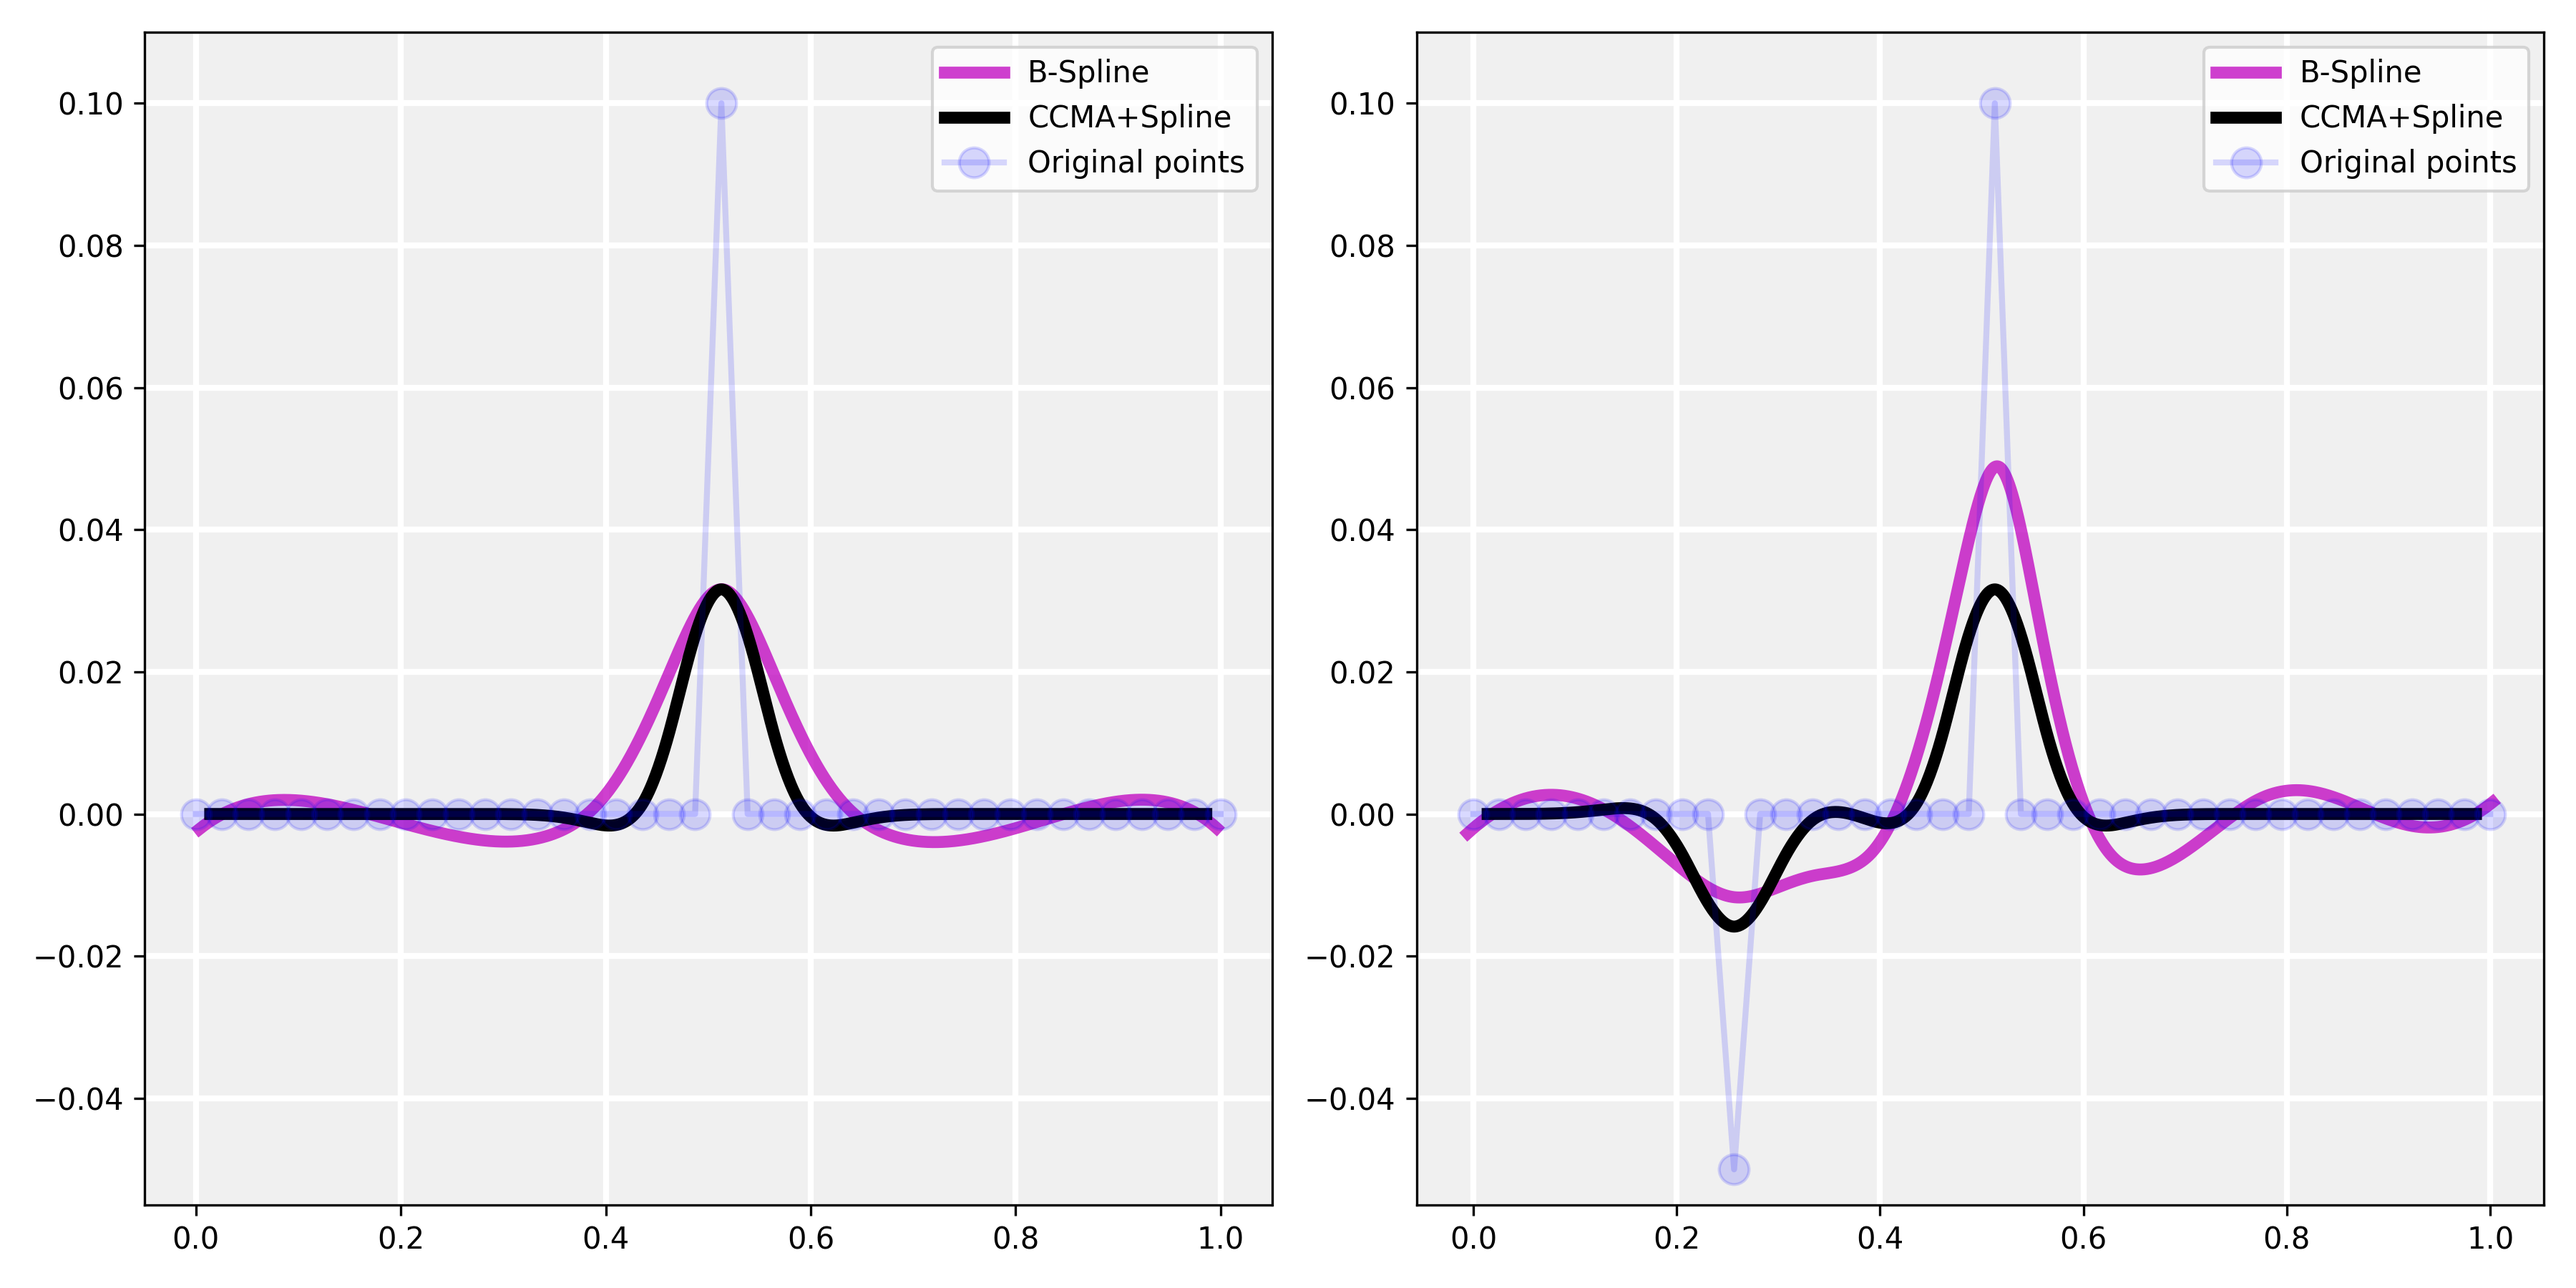
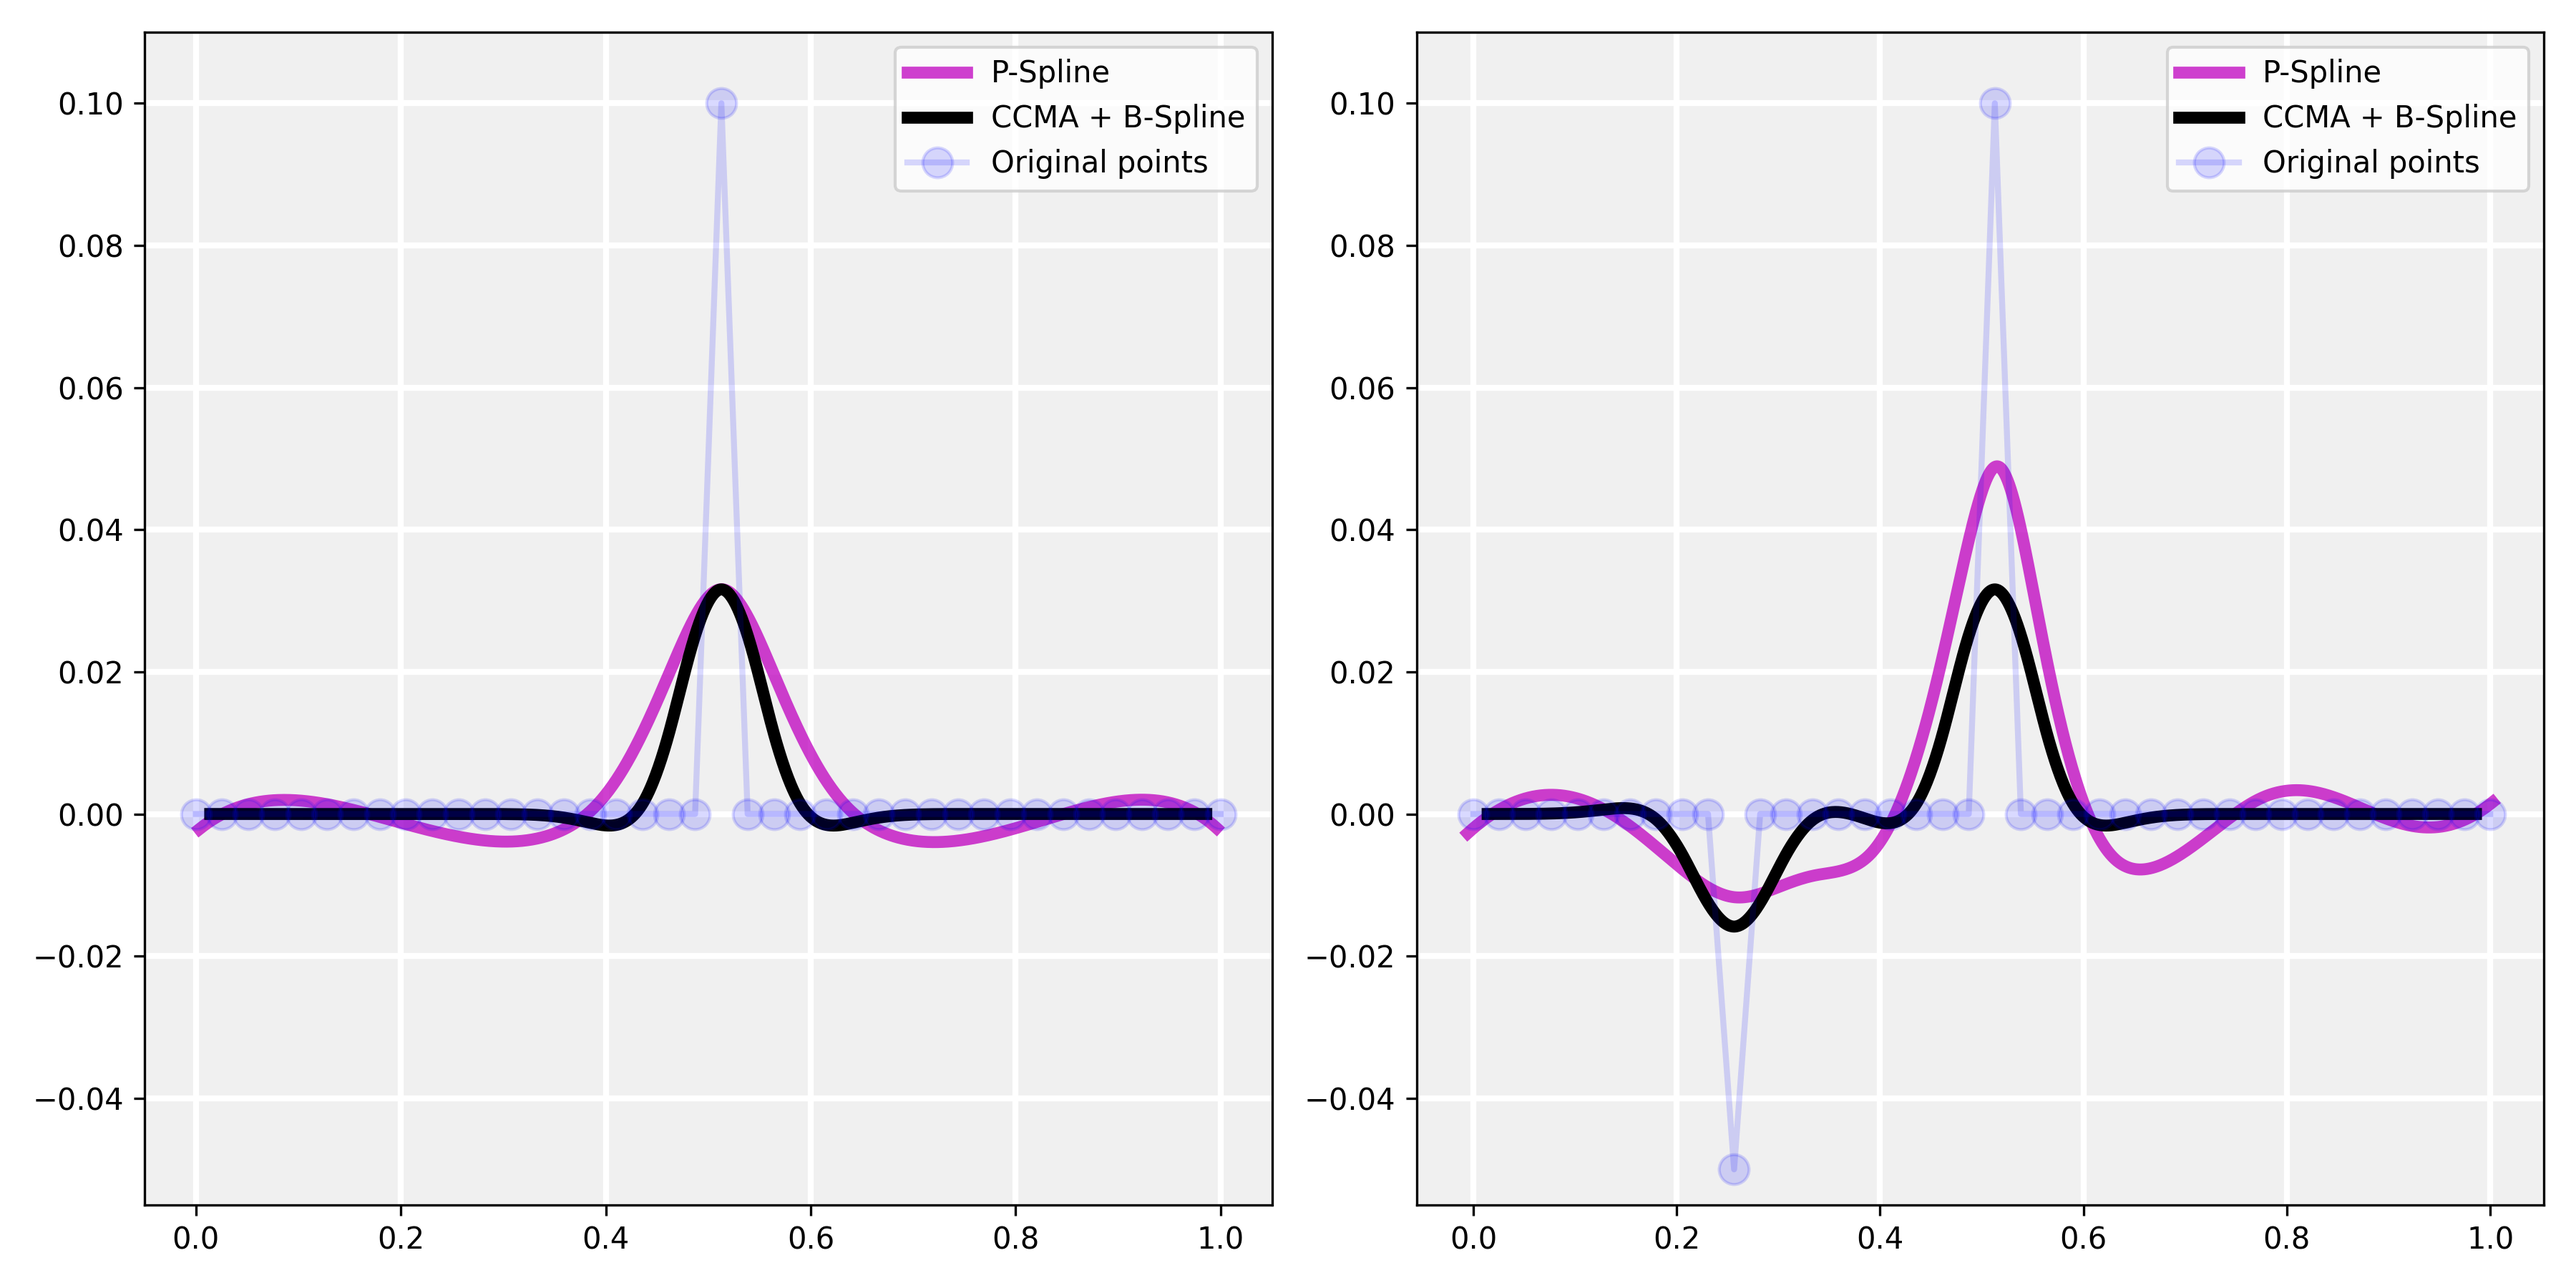
improved Spline terminology

Changed region(s): [[0.84, 0.0311, 0.9644, 0.1556], [0.3422, 0.0311, 0.4667, 0.1556]]

diff --git a/examples/example_5_ccma_and_splines.py b/examples/example_5_ccma_and_splines.py
@@ -25,12 +25,12 @@ ccma_points = ccma.filter(points)
 # Fit a 2D Spline to the CCMA-smoothed path
 tck, u = splprep(x=ccma_points.T, s=0, k=3)
 spline_samples = splev(np.linspace(0, 1, 1000), tck)
-plt.plot(spline_samples[0], spline_samples[1], '-', color="magenta", linewidth=4, alpha=1.0, label="CCMA+Spline")
+plt.plot(spline_samples[0], spline_samples[1], '-', color="magenta", linewidth=4, alpha=1.0, label="CCMA + B-Spline")
 
 # Fit a 2D B-Spline to the original data
 tck, u = splprep(x=points.T, s=0.0088, k=3)
 bspline_samples = splev(x=np.linspace(0, 1, 1000), tck=tck)
-plt.plot(bspline_samples[0], bspline_samples[1], 'b-', linewidth=4, alpha=0.75, label="Spline")
+plt.plot(bspline_samples[0], bspline_samples[1], 'b-', linewidth=4, alpha=0.75, label="P-Spline")
 
 # Visualize original points
 plt.plot(*points.T, "k-o", linewidth=2, alpha=0.15, markersize=10, label="Original points")

diff --git a/README.md b/README.md
@@ -75,16 +75,16 @@ In contrast, the CCMA is specifically designed to be influenced only by local ch
 making it a robust and predictable option. 
 The figure below illustrates this distinction. 
 On the left, it is evident that the CCMA is affected only in the vicinity of the outlier, 
-while the B-Spline oscillates over its entire length. 
+while the P-Spline oscillates over its entire length. 
 In the right plot, an additional outlier is introduced, once again affecting the CCMA locally. 
-Conversely, the B-Spline undergoes a significant global shape change, 
+Conversely, the P-Spline undergoes a significant global shape change, 
 with the previous peak increasing and the subsequent oscillations becoming more vivid.
 
-Another noteworthy aspect is the possibility of combining the CCMA and Splines. 
+Another noteworthy aspect is the possibility of combining the CCMA and B-Splines. 
 This results in a continuous function, 
-but the output is more predictable and intuitive compared to B-Splines. 
+but the output is more predictable and intuitive compared to P-Splines. 
 In the figure below, the CCMA was applied first, 
-and the outcome was utilized for Spline generation. 
+and the outcome was utilized for B-Spline generation. 
 An illustrative example can also be found in the list of examples.
 
 ![alt text](./figures/ccma_vs_bspline.png "B-Spline vs. CCMA + B-Spline")
